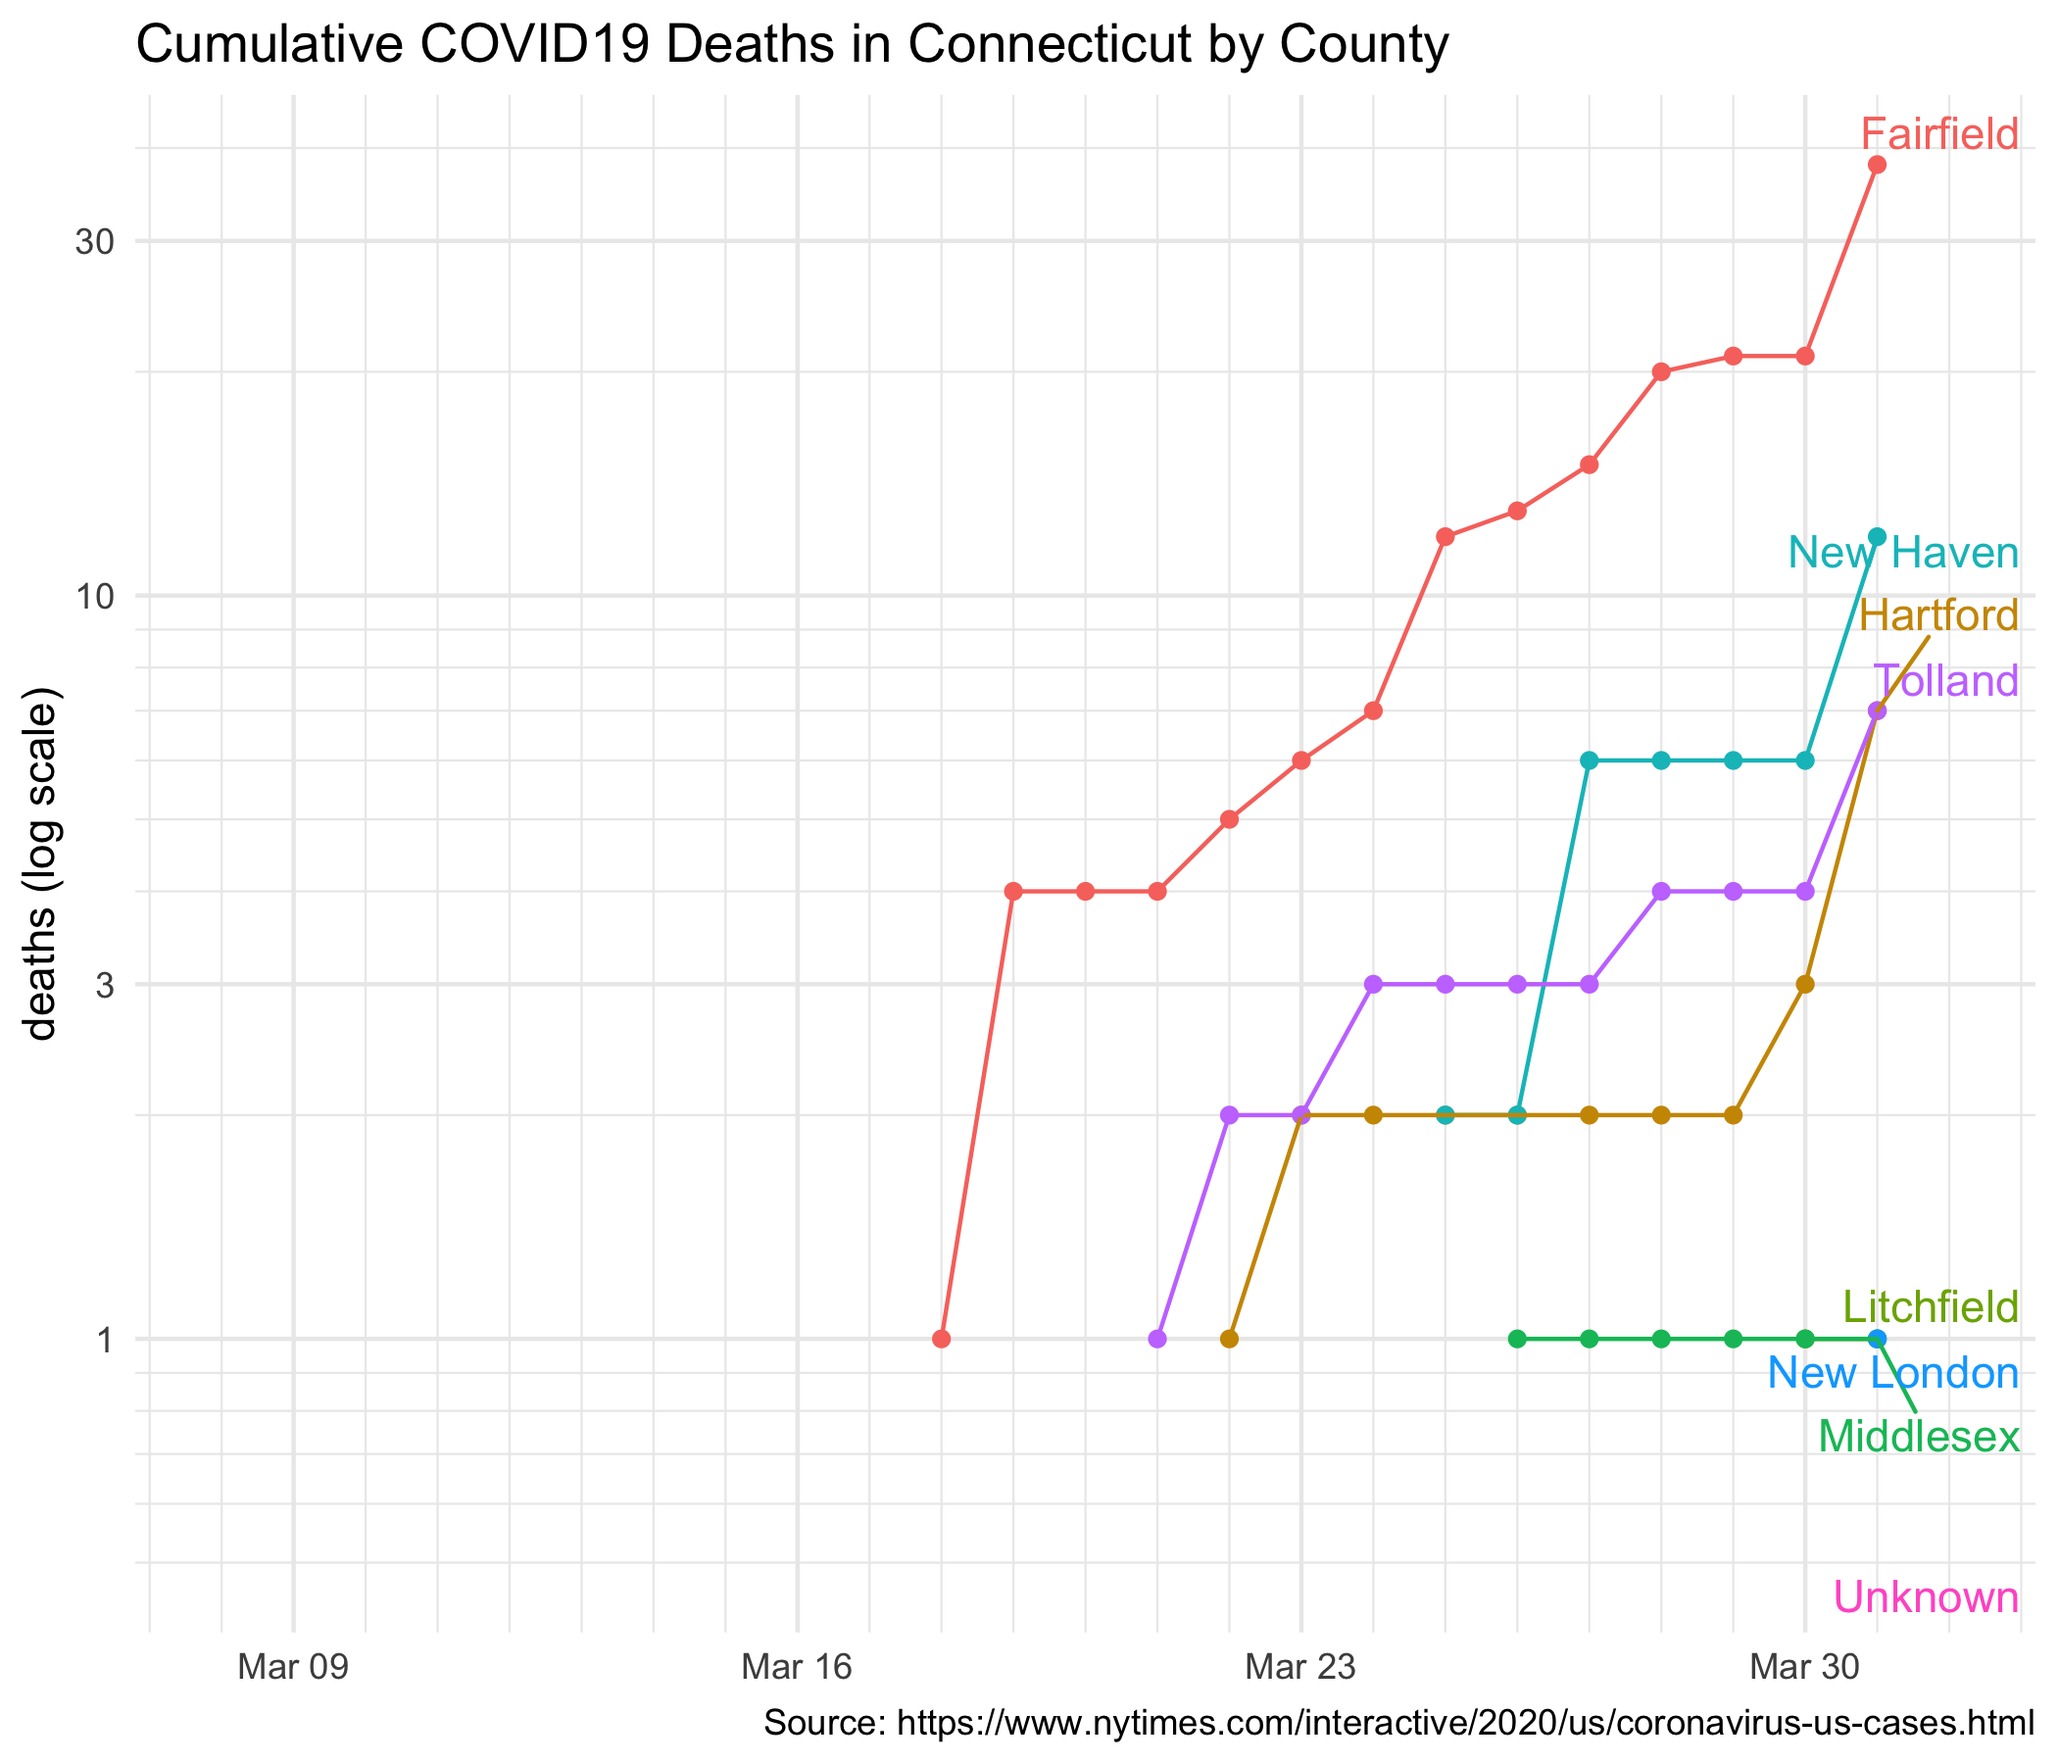
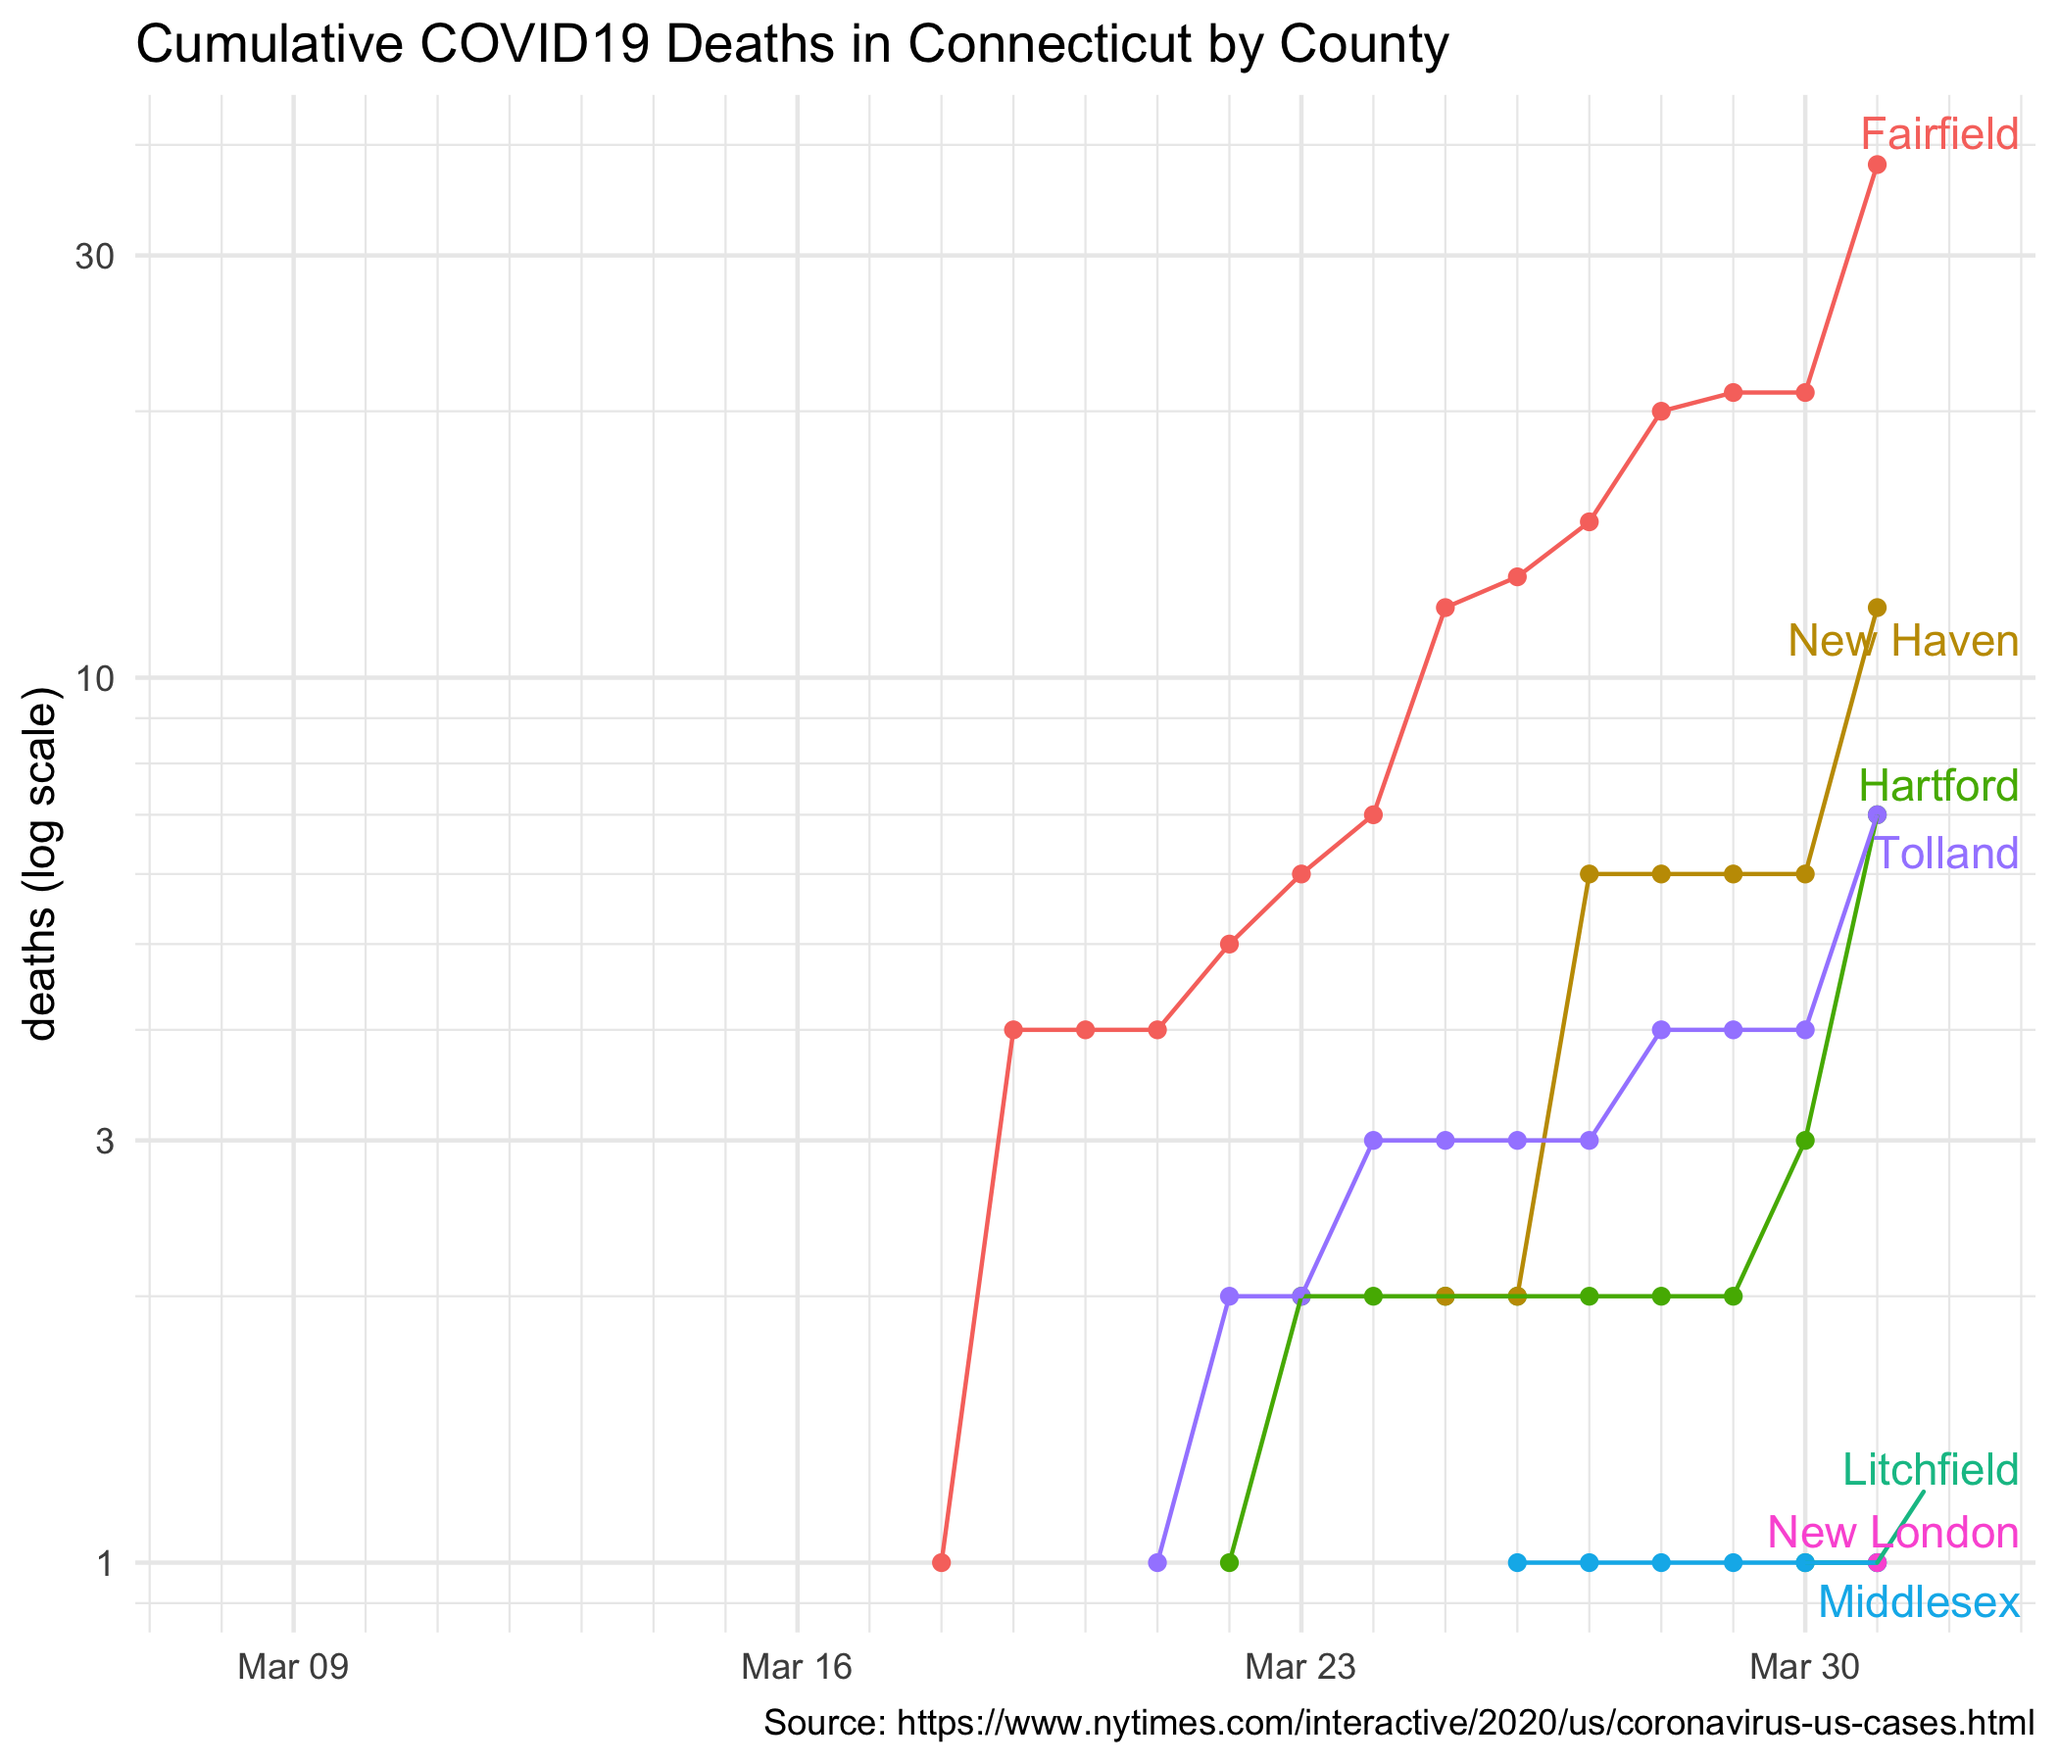
filtered out "unknown" county and added link to ct data collaborative

diff --git a/content/post/2020-03-29-covid19-cases-in-connecticut/index.en.md b/content/post/2020-03-29-covid19-cases-in-connecticut/index.en.md
@@ -35,6 +35,13 @@ relative magnitude of cases among the counties.
 <br/><br/>
 
 {{< figure src="cases_nonlog.png" title="" caption="" >}}
+<br/><br/>
+
+Note that there are some cases and deaths for which the county
+is unknown. According to the New York Times, they will follow
+up with the state sources to get those resolved. As of 3/31/2020
+the Department of Public Health lists 77 confirmed cases 
+as "pending address validation" and two deaths.
 
 Because
 some of us may be a bit unclear about the location of all
@@ -68,6 +75,9 @@ this kind of data. I plan to update this post as time passes
 and we get more data. As someone who just turned 70, I'll
 be staying home in front of my computer aside from necessary
 trips to get food and a vigorous daily walk.
+
+For another view of this data, see the blog post at the
+[Connecticut Data Collaborative](https://www.ctdata.org/blog/stopping-the-spread-using-trusted-data-sources-to-prevent-misinformation-about-covid-19).
 
 <br/><br/>
 
